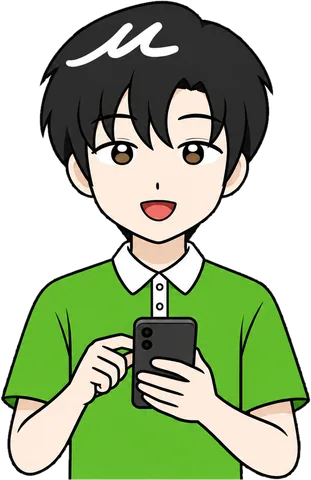
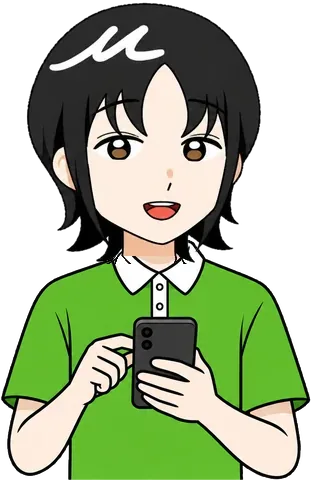
feat(ui): 남자 손 흔들기·듣기·폰 그림을 원본 얼굴로, 링크 미리보기 양옆에 캐릭터(B안)

diff --git a/apps/web/index.html b/apps/web/index.html
@@ -16,7 +16,7 @@
     <meta property="og:title" content="ITDA 잇다" />
     <meta property="og:description" content="눌러서 바로 시작할 수 있어요" />
     <meta property="og:url" content="https://itda.gyeot.ai.kr/" />
-    <meta property="og:image" content="https://itda.gyeot.ai.kr/og-image.png?v=2" />
+    <meta property="og:image" content="https://itda.gyeot.ai.kr/og-image.png?v=3" />
     <meta property="og:image:width" content="1200" />
     <meta property="og:image:height" content="630" />
     <meta name="twitter:card" content="summary_large_image" />
